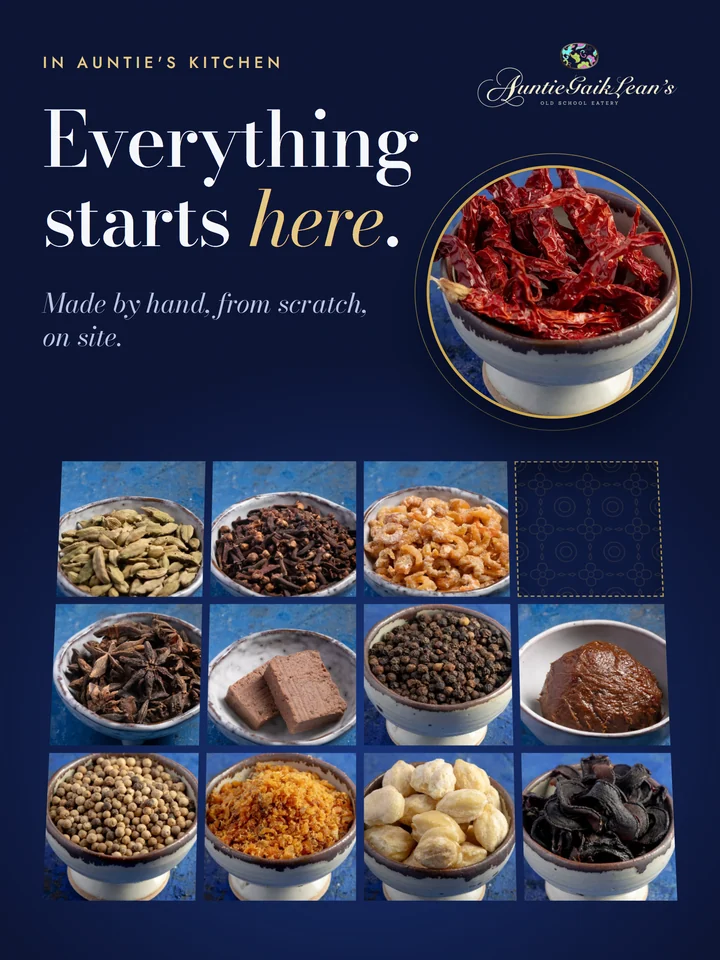
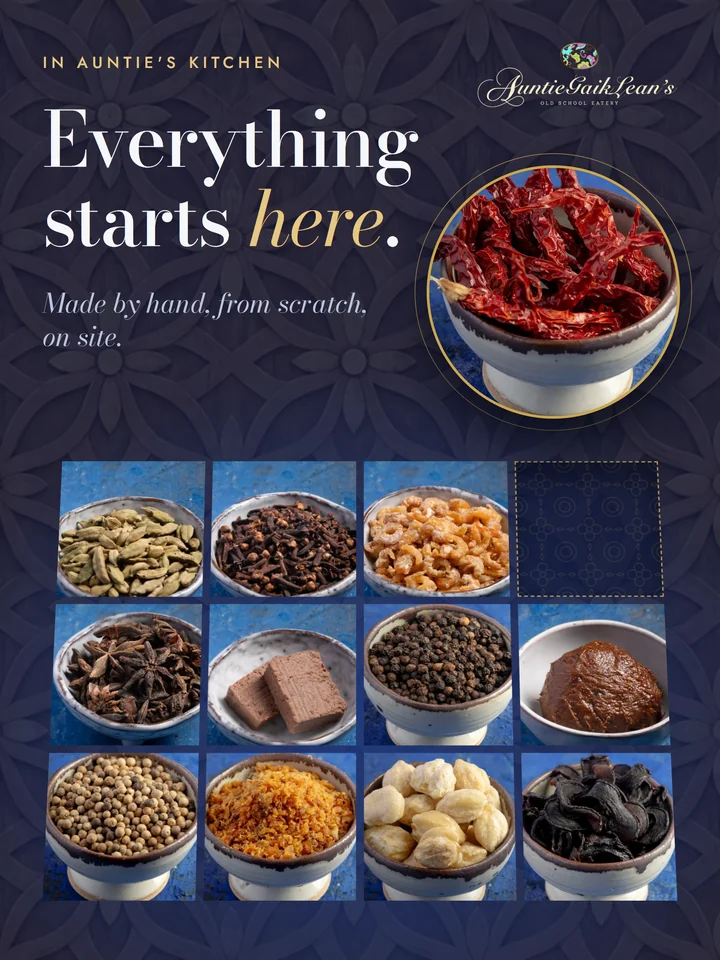
Posts: new photographic textures (lace, batik, beadwork, teak lattice, wave cloud, florals...) on all 14 feed posts; 10 textures added

diff --git a/samples/art/post-04.html b/samples/art/post-04.html
@@ -8,7 +8,7 @@
 /* tamarind brown, mixed from brand tokens (gold-lo + chili, deepened with night) */
 .p4{--tam:color-mix(in srgb,color-mix(in srgb,var(--gold-lo) 68%,var(--chili)) 74%,var(--night));background:var(--night)}
 .p4 .glowbg{position:absolute;inset:0;background:radial-gradient(70% 45% at 70% 28%,rgba(47,92,184,.45),transparent 70%)}
-.p4 .tiles{position:absolute;left:0;top:820px;width:1080px;height:620px;background:url("../../assets/pattern/tile-gold.svg") 0 0/120px 120px;opacity:.06}
+.p4 .tiles{position:absolute;left:0;top:820px;width:1080px;height:620px;background:url("../../assets/texture/carved-teak-lattice-1280.webp") center/cover;opacity:0.15}
 .p4 .band{position:absolute;left:0;top:0;width:184px;height:790px;background:var(--tam)}
 .p4 .band::after{content:"";position:absolute;right:0;top:0;width:1px;height:100%;background:var(--gold);opacity:.6}
 .p4 .lbl.vlab{position:absolute;left:80px;top:64px;height:520px;writing-mode:vertical-rl;transform:rotate(180deg);font-size:24px;color:var(--porcelain);text-align:right;white-space:nowrap}

diff --git a/samples/art/post-01.html b/samples/art/post-01.html
@@ -6,7 +6,7 @@
 <style>
 .p1{background:var(--night)}
 .p1 .glowbg{position:absolute;inset:0;background:radial-gradient(90% 60% at 20% 70%,rgba(29,63,143,.55),transparent 70%)}
-.p1 .tiles{position:absolute;left:0;top:0;width:480px;height:1440px;background:url("../../assets/pattern/tile-gold.svg") 0 0/120px 120px;opacity:.07}
+.p1 .tiles{position:absolute;left:0;top:0;width:480px;height:1440px;background:url("../../assets/texture/kebaya-lace-blue-1280.webp") center/cover;opacity:0.26}
 .p1 .num{position:absolute;left:56px;top:420px;font-family:var(--f-display);font-weight:500;font-size:440px;line-height:1;letter-spacing:-.04em;color:transparent;-webkit-text-stroke:2px var(--gold);font-variation-settings:"opsz" 28;font-optical-sizing:none}
 .p1 .photo{left:480px;top:0;width:600px;height:930px}
 .p1 .photo img{object-position:50% 12%}

diff --git a/samples/art/post-03.html b/samples/art/post-03.html
@@ -6,7 +6,7 @@
 <style>
 .p3{background:var(--indigo)}
 .p3 .bg{position:absolute;inset:0;background:radial-gradient(70% 50% at 50% 30%,rgba(47,92,184,.55),transparent 75%),linear-gradient(180deg,var(--cobalt) -20%,var(--night) 70%)}
-.p3 .tiles{position:absolute;inset:0;background:url("../../assets/pattern/tile-gold.svg") 0 0/120px 120px;opacity:.08}
+.p3 .tiles{position:absolute;inset:0;background:url("../../assets/texture/manek-beadwork-1280.webp") center/cover;opacity:0.2}
 .p3 .logo{position:absolute;left:64px;top:64px;width:300px}
 .p3 .handle{position:absolute;left:64px;top:172px;width:300px;line-height:1.5;font-size:20px}
 .p3 .card{position:absolute;left:110px;top:270px;width:820px;height:581px;padding:24px;background:var(--porcelain);transform:rotate(-4deg);box-shadow:0 34px 60px rgba(4,8,24,.55)}

diff --git a/samples/art/post-07.html b/samples/art/post-07.html
@@ -7,7 +7,7 @@
 <style>
 .p7{background:var(--night)}
 .p7 .glowbg{position:absolute;inset:0;background:radial-gradient(48% 30% at 74% 46%,rgba(201,161,74,.22),transparent 70%),radial-gradient(80% 60% at 30% 90%,rgba(29,63,143,.5),transparent 70%)}
-.p7 .tiles{position:absolute;inset:0;background:url("../../assets/pattern/tile-gold.svg") 0 0/120px 120px;opacity:.05}
+.p7 .tiles{position:absolute;inset:0;background:url("../../assets/texture/gold-lacquer-crackle-1280.webp") center/cover;opacity:0.11}
 .p7 .logo{position:absolute;left:64px;top:64px;width:300px}
 .p7 .handle{position:absolute;right:64px;top:92px;text-align:right}
 .p7 h1{position:absolute;left:64px;top:206px;font-size:128px;color:var(--porcelain)}

diff --git a/samples/art/post-08.html b/samples/art/post-08.html
@@ -7,7 +7,7 @@
 <style>
 .p8{background:var(--indigo)}
 .p8 .bg{position:absolute;inset:0;background:radial-gradient(60% 45% at 75% 60%,rgba(201,161,74,.18),transparent 70%),linear-gradient(180deg,var(--indigo),var(--night) 85%)}
-.p8 .tiles{position:absolute;inset:0;background:url("../../assets/pattern/tile-gold.svg") 0 0/120px 120px;opacity:.07}
+.p8 .tiles{position:absolute;inset:0;background:url("../../assets/texture/kebaya-lace-blue-1280.webp") center/cover;opacity:0.26}
 .p8 .logo{position:absolute;left:64px;top:64px;width:300px}
 .p8 .lbl.top{position:absolute;right:64px;top:92px;font-size:24px;color:var(--gold-hi)}
 .p8 h1{position:absolute;left:64px;top:196px;font-size:122px;color:var(--porcelain)}

diff --git a/samples/art/post-02.html b/samples/art/post-02.html
@@ -6,7 +6,7 @@
 <link rel="stylesheet" href="art.css">
 <style>
 .p2{background:var(--porcelain);color:var(--ink)}
-.p2 .band{position:absolute;left:0;top:560px;width:1080px;height:300px;background:url("../../assets/pattern/tile-cobalt.svg") 0 0/120px 120px;opacity:.15}
+.p2 .band{position:absolute;left:0;top:560px;width:1080px;height:300px;background:url("../../assets/texture/blue-white-wave-cloud-1280.webp") center/cover;opacity:0.6}
 .p2 .logo{position:absolute;right:64px;top:64px;width:300px}
 .p2 .lbl{position:absolute;left:64px;top:72px;font-size:24px;color:var(--cobalt);width:520px;line-height:1.5}
 .p2 h1{position:absolute;left:64px;top:190px;font-size:176px;color:var(--cobalt);line-height:.98}

diff --git a/samples/art/post-06.html b/samples/art/post-06.html
@@ -6,7 +6,7 @@
 <link rel="stylesheet" href="art.css">
 <style>
 .p6{background:var(--porcelain);color:var(--ink)}
-.p6 .tiles{position:absolute;left:0;top:1060px;width:1080px;height:380px;background:url("../../assets/pattern/tile-cobalt.svg") 0 0/120px 120px;opacity:.1}
+.p6 .tiles{position:absolute;left:0;top:1060px;width:1080px;height:380px;background:url("../../assets/texture/batik-line-blue-cream-1280.webp") center/cover;opacity:0.55}
 .p6 .lbl{position:absolute;left:64px;top:72px;font-size:24px;color:var(--cobalt)}
 .p6 .logo{position:absolute;right:64px;top:1279px;width:300px}
 .p6 .giant{position:absolute;font-size:390px;line-height:1;color:var(--cobalt);letter-spacing:-.03em}

diff --git a/samples/art/post-10.html b/samples/art/post-10.html
@@ -6,7 +6,7 @@
 <link rel="stylesheet" href="art.css">
 <style>
 .p10{background:var(--porcelain);color:var(--ink)}
-.p10 .wall{position:absolute;left:0;top:626px;width:1080px;height:620px;background:url("../../assets/pattern/tile-cobalt.svg") 0 0/120px 120px;opacity:.13}
+.p10 .wall{position:absolute;left:0;top:626px;width:1080px;height:620px;background:url("../../assets/texture/blue-ditsy-florals-1280.webp") center/cover;opacity:0.6}
 .p10 .lbl.top{position:absolute;left:64px;top:76px;font-size:24px;color:var(--cobalt)}
 .p10 .logo{position:absolute;right:64px;top:64px;width:300px}
 .p10 h1{position:absolute;left:64px;top:160px;font-size:118px;color:var(--cobalt)}

diff --git a/samples/art/post-14.html b/samples/art/post-14.html
@@ -7,7 +7,7 @@
 <style>
 .p14{background:var(--night)}
 .p14 .glowbg{position:absolute;inset:0;background:radial-gradient(70% 40% at 50% 70%,rgba(29,63,143,.5),transparent 75%)}
-.p14 .tiles{position:absolute;inset:0;background:url("../../assets/pattern/tile-gold.svg") 0 0/120px 120px;opacity:.05}
+.p14 .tiles{position:absolute;inset:0;background:url("../../assets/texture/kebaya-lace-blue-1280.webp") center/cover;opacity:0.24}
 .p14 .lbl.top{position:absolute;left:64px;top:76px;font-size:24px;color:var(--gold-hi)}
 .p14 .logo{position:absolute;right:64px;top:64px;width:300px}
 .p14 h1{position:absolute;left:64px;top:140px;font-size:158px;color:var(--porcelain)}

diff --git a/samples/art/post-09.html b/samples/art/post-09.html
@@ -7,7 +7,7 @@
 <style>
 .p9{background:var(--night)}
 .p9 .glowbg{position:absolute;inset:0;background:radial-gradient(46% 34% at 50% 59%,rgba(29,63,143,.55),transparent 75%)}
-.p9 .tiles{position:absolute;inset:0;background:url("../../assets/pattern/tile-gold.svg") 0 0/120px 120px;opacity:.045}
+.p9 .tiles{position:absolute;inset:0;background:url("../../assets/texture/manek-beadwork-1280.webp") center/cover;opacity:0.18}
 .p9 .lbl.top{position:absolute;left:64px;top:76px;font-size:24px;color:var(--gold-hi)}
 .p9 .logo{position:absolute;right:64px;top:64px;width:300px}
 .p9 h1{position:absolute;left:64px;top:188px;font-size:108px;color:var(--porcelain)}

diff --git a/samples/art/post-11.html b/samples/art/post-11.html
@@ -6,7 +6,7 @@
 <link rel="stylesheet" href="art.css">
 <style>
 .p11{background:var(--porcelain-2);color:var(--ink)}
-.p11 .tiles{position:absolute;inset:0;background:url("../../assets/pattern/tile-cobalt.svg") 0 0/150px 150px;opacity:.16}
+.p11 .tiles{position:absolute;inset:0;background:url("../../assets/texture/phoenix-peony-gold-1280.webp") center/cover;opacity:0.75}
 .p11 .shade{position:absolute;inset:0;background:radial-gradient(70% 50% at 50% 68%,transparent 40%,rgba(29,63,143,.10) 100%)}
 .p11 .logo{position:absolute;left:64px;top:64px;width:300px}
 .p11 .lbl.top{position:absolute;right:64px;top:92px;font-size:24px;color:var(--cobalt)}

diff --git a/samples/art/post-12.html b/samples/art/post-12.html
@@ -7,7 +7,7 @@
 <style>
 .p12{background:var(--night)}
 .p12 .glowbg{position:absolute;inset:0;background:radial-gradient(70% 30% at 50% 52%,rgba(47,92,184,.45),transparent 75%)}
-.p12 .tiles{position:absolute;inset:0;background:url("../../assets/pattern/tile-gold.svg") 0 0/120px 120px;opacity:.05}
+.p12 .tiles{position:absolute;inset:0;background:url("../../assets/texture/carved-teak-lattice-1280.webp") center/cover;opacity:0.14}
 .p12 .logo{position:absolute;left:64px;top:64px;width:300px}
 .p12 .handle{position:absolute;right:64px;top:92px;text-align:right}
 .p12 h1{position:absolute;left:64px;top:196px;font-size:118px;color:var(--porcelain)}
